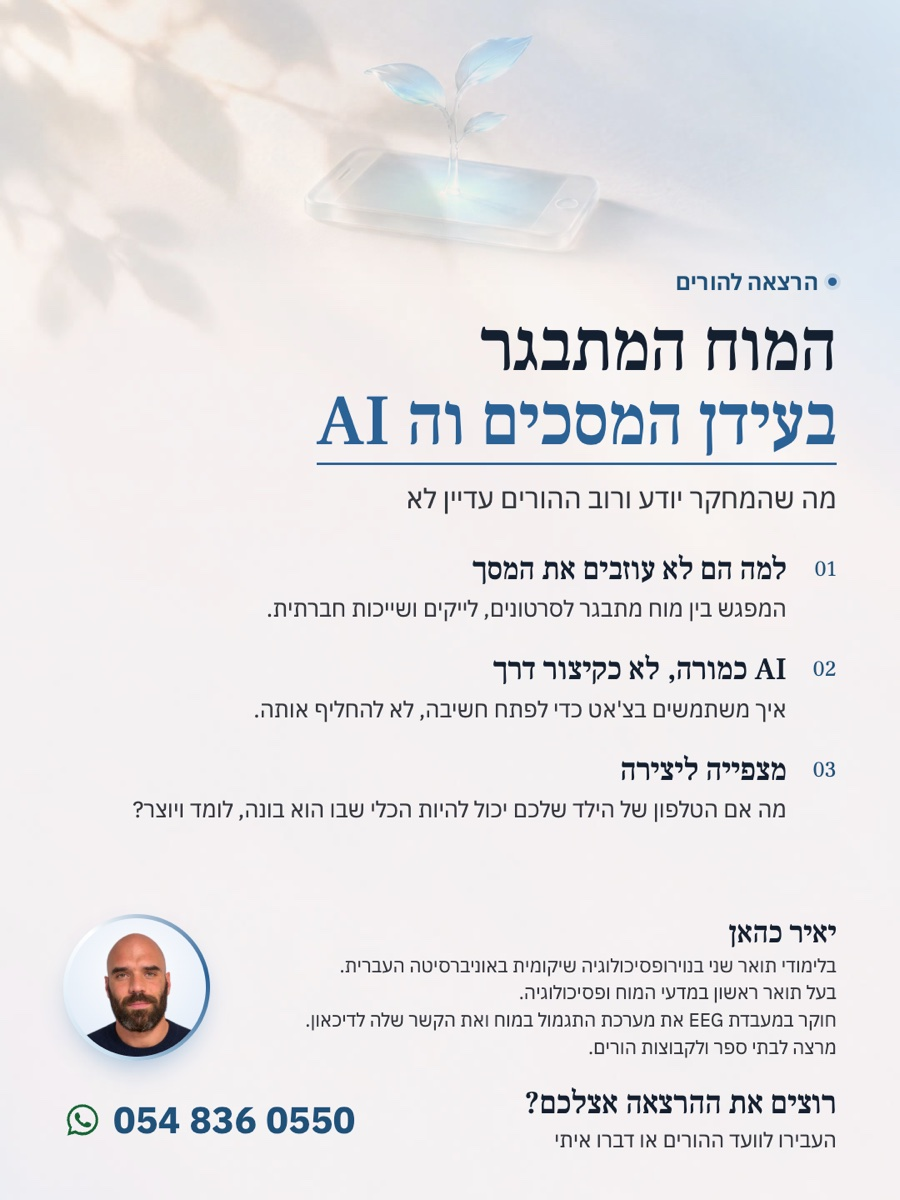
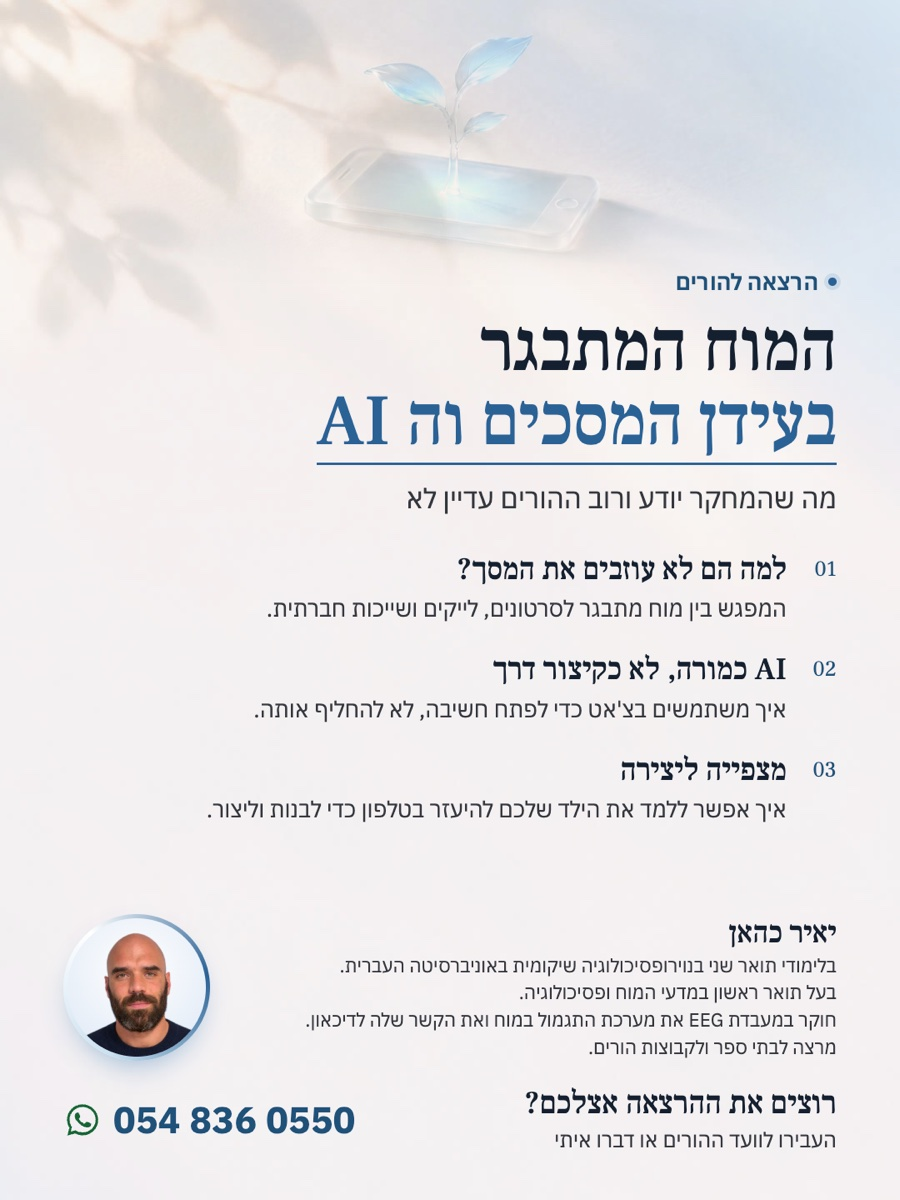
Parents lecture: clearer third point, question mark on the first
'למה הם לא עוזבים את המסך?' and 'איך אפשר ללמד את הילד שלכם להיעזר בטלפון כדי לבנות וליצור.'
on the site card, and the hosted email flyer image updated to match.

Changed region(s): [[0.1556, 0.6475, 0.8711, 0.6783], [0.4978, 0.4625, 0.5289, 0.4933]]

diff --git a/index.html b/index.html
@@ -444,7 +444,7 @@ html[data-theme="dark"] .glowc{background:radial-gradient(circle,rgba(142,193,23
         <div class="body" id="lec-parents-b" hidden>
           <div>
             <h4 class="k">על מה מדברים</h4>
-            <ul><li><b>למה הם לא עוזבים את המסך:</b> המפגש בין מוח מתבגר לסרטונים, לייקים ושייכות חברתית.</li><li><b>AI כמורה, לא כקיצור דרך:</b> איך משתמשים בצ'אט כדי לפתח חשיבה, לא להחליף אותה.</li><li><b>מצפייה ליצירה:</b> מה אם הטלפון של הילד שלכם יכול להיות הכלי שבו הוא בונה, לומד ויוצר?</li></ul>
+            <ul><li><b>למה הם לא עוזבים את המסך?</b> המפגש בין מוח מתבגר לסרטונים, לייקים ושייכות חברתית.</li><li><b>AI כמורה, לא כקיצור דרך:</b> איך משתמשים בצ'אט כדי לפתח חשיבה, לא להחליף אותה.</li><li><b>מצפייה ליצירה:</b> איך אפשר ללמד את הילד שלכם להיעזר בטלפון כדי לבנות וליצור.</li></ul>
             <div class="brain"><h4 class="k">מה קורה במוח</h4><p>אצל בני נוער, החלק במוח שרוצה עוד כבר פועל בכל הכוח, והבלמים עדיין נבנים.</p></div>
             <p class="fmt">מתאים לערב הורים או למפגש של ועד ההורים.</p>
             <a class="btn btn-sig btn-sm go" href="https://wa.me/972548360550?text=%D7%94%D7%99%D7%99%20%D7%99%D7%90%D7%99%D7%A8%2C%20%D7%94%D7%92%D7%A2%D7%AA%D7%99%20%D7%9E%D7%94%D7%90%D7%AA%D7%A8%0A%D7%A9%D7%9E%D7%99%20...%2C%20%D7%AA%D7%A4%D7%A7%D7%99%D7%93%3A%20...%2C%20%D7%9E...%20%28%D7%91%D7%99%D7%AA%20%D7%A1%D7%A4%D7%A8%20%D7%90%D7%95%20%D7%95%D7%A2%D7%93%20%D7%94%D7%95%D7%A8%D7%99%D7%9D%29%0A%D7%9E%D7%AA%D7%A2%D7%A0%D7%99%D7%99%D7%A0%D7%99%D7%9D%20%D7%91%D7%94%D7%A8%D7%A6%D7%90%D7%94%20%22%D7%9C%D7%94%D7%95%D7%A8%D7%99%D7%9D%3A%20%D7%94%D7%9E%D7%95%D7%97%20%D7%94%D7%9E%D7%AA%D7%91%D7%92%D7%A8%20%D7%91%D7%A2%D7%99%D7%93%D7%9F%20%D7%94%D7%9E%D7%A1%D7%9B%D7%99%D7%9D%20%D7%95%D7%94%20AI%22%0A%D7%A7%D7%91%D7%95%D7%A6%D7%94%3A%20%D7%9B...%20%D7%94%D7%95%D7%A8%D7%99%D7%9D%0A%D7%9E%D7%94%20%D7%94%D7%99%D7%99%D7%A0%D7%95%20%D7%A8%D7%95%D7%A6%D7%99%D7%9D%20%D7%A9%D7%99%D7%99%D7%A9%D7%90%D7%A8%20%D7%9C%D7%94%D7%9D%3A%20...%0A%D7%9E%D7%95%D7%A2%D7%93%20%D7%9E%D7%A9%D7%95%D7%A2%D7%A8%3A%20..." target="_blank" rel="noopener"><svg viewBox="0 0 24 24" aria-hidden="true"><path d="M17.47 14.38c-.3-.15-1.76-.87-2.03-.97-.27-.1-.47-.15-.67.15-.2.3-.77.97-.94 1.16-.17.2-.35.22-.64.07-.3-.15-1.26-.46-2.39-1.47-.88-.79-1.48-1.76-1.65-2.06-.17-.3-.02-.46.13-.61.13-.13.3-.35.45-.52.15-.17.2-.3.3-.5.1-.2.05-.37-.03-.52-.07-.15-.67-1.61-.92-2.21-.24-.58-.49-.5-.67-.51h-.57c-.2 0-.52.07-.79.37-.27.3-1.04 1.02-1.04 2.48s1.07 2.88 1.21 3.07c.15.2 2.1 3.2 5.08 4.49.71.31 1.26.49 1.69.63.71.23 1.36.2 1.87.12.57-.09 1.76-.72 2.01-1.41.25-.69.25-1.29.17-1.41-.07-.12-.27-.2-.57-.35M12.05 21.79h-.01a9.87 9.87 0 0 1-5.03-1.38l-.36-.21-3.74.98 1-3.65-.24-.37a9.86 9.86 0 0 1-1.51-5.26c0-5.45 4.44-9.88 9.89-9.88 2.64 0 5.12 1.03 6.99 2.9a9.83 9.83 0 0 1 2.89 6.99c0 5.45-4.44 9.88-9.89 9.88M20.46 3.49A11.82 11.82 0 0 0 12.05 0C5.5 0 .16 5.34.16 11.89c0 2.1.55 4.14 1.59 5.95L.06 24l6.3-1.65a11.88 11.88 0 0 0 5.68 1.45h.01c6.55 0 11.89-5.34 11.89-11.89 0-3.18-1.24-6.17-3.48-8.42"/></svg>לבדוק תאריך בוואטסאפ</a>
